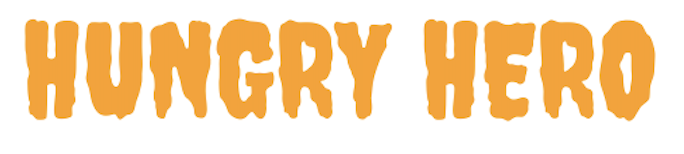
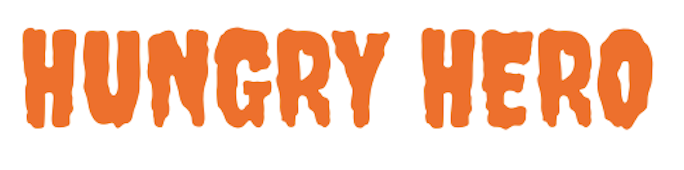
headline with exact color added

diff --git a/src/components/Header.js b/src/components/Header.js
@@ -95,7 +95,7 @@ const Header = () => {
               />
             </Link>
             
-            <div className="mt-2">
+            <div className="mt-2 ml-2">
               <img src={headImg} height={140} width={160}/>
             </div>
             
